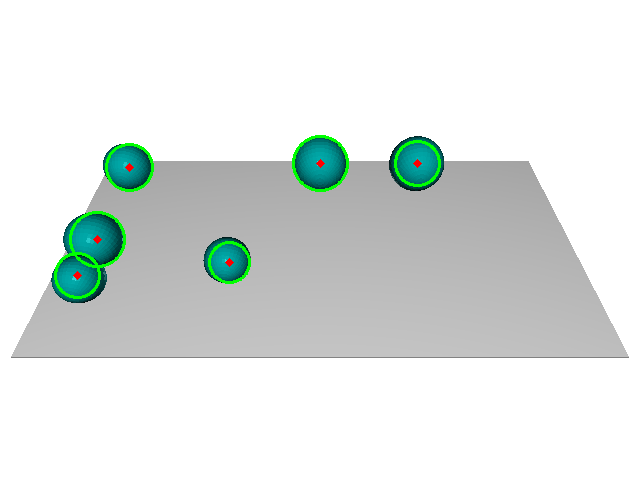
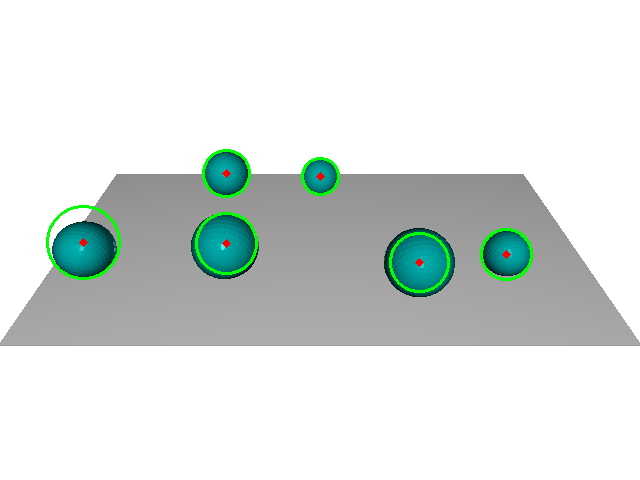
Finish task8-9

Changed region(s): [[0.0, 0.2812, 1.0, 0.75], [0.5938, 0.4688, 0.7188, 0.625], [0.75, 0.4688, 0.8438, 0.5938]]

diff --git a/CWII2324-v2.py b/CWII2324-v2.py
@@ -108,7 +108,7 @@ if __name__ == '__main__':
                         help='open up another visualiser to visualise centres')
     parser.add_argument('--coords', dest='bCoords', action='store_true')
 
-    parser.add_argument('--display_epilines', dest='bEpilines', action='store_true',
+    parser.add_argument('--display_spheres', dest='bSpheres', action='store_true',
                         help='Display epipolar lines in the 3D visualizer')
 
     parser.add_argument('--display_centers', dest='bDisplayCenters', action='store_true',
@@ -445,6 +445,9 @@ if __name__ == '__main__':
     # Extract the 3x3 intrinsic matrix from the Open3D PinholeCameraIntrinsic object
     K_matrix = np.array(K.intrinsic_matrix).reshape((3, 3))
 
+    R = H_10[:3, :3].T # R10^T
+    T = H_10[:3, 3] # T10
+
     reconstructed_centers = []
 
     for (pL, pR) in correspondences:  # Loop through the good pairs obtained from Task 5
@@ -452,24 +455,30 @@ if __name__ == '__main__':
         # Convert image points to normalized device coordinates
         pL_n = np.linalg.inv(K_matrix) @ np.array([pL[0], pL[1], 1])
         pR_n = np.linalg.inv(K_matrix) @ np.array([pR[0], pR[1], 1])
+        print(pL_n)
+        print("pR_n", pR_n)
+        print("R",R)
+        print("R.T",R.T)
 
-        # Compute cross product
-        pL_cross_pR = np.cross(pL_n, np.matmul(R, pR_n))
+    # Compute cross product
+        pL_cross_pR = np.cross(pL_n, np.matmul(R.T, pR_n))
 
         # Form the linear system Ax = 0
         A = np.column_stack([pL_n, -np.matmul(R.T, pR_n), -pL_cross_pR])
+        print("T",T)
 
-        b = -T.reshape(3, 1)  # Make sure T is a column vector
+        b = -T  # Make sure T is a column vector
 
         # Solve the linear system using least squares
         x, _, _, _ = np.linalg.lstsq(A, b, rcond=None)
 
         # a, b, and c are the components of the solution x
         a, b, c = x.flatten()  # Flatten in case x is a 2D array
-
+        print("a,b,c",a,b,c)
         # Reconstruct the 3D point
         X = a * pL_n - c * pL_cross_pR
 
+        # X = (a*pL_n + b*np.matmul(R, pR_n) + T)/2
         # Append the reconstructed 3D center to the list
         reconstructed_centers.append(X)
 
@@ -519,6 +528,24 @@ if __name__ == '__main__':
 
     Write your code here
     '''
+    estimated_radii = []
+
+    # Assuming circles0 and reconstructed_centers are available from previous tasks
+    # and 'f' is the focal length used in camera setup
+    for i, circle in enumerate(circles0[0, :]):
+        print(circles0)
+        # Extract the 2D radius
+        radius_2d = circle[2]
+
+        # Extract the corresponding 3D center
+        center_3d = reconstructed_centers[i]
+
+        # Estimate the 3D radius
+        # This assumes the depth of the sphere center is a good approximation for the sphere's radius
+        radius_3d = radius_2d / f * np.linalg.norm(center_3d)
+        estimated_radii.append(radius_3d)
+
+        print(f"Estimated 3D radius for sphere {i}: {radius_3d}")
     ###################################
 
 
@@ -528,6 +555,38 @@ if __name__ == '__main__':
 
     Write your code here:
     '''
+    # Compute radius errors
+    radius_errors = []
+    for gt_rad, est_rad in zip(GT_rads, estimated_radii):
+        error = abs(gt_rad - est_rad)
+        radius_errors.append(error)
+        print(f"Radius Error: {error}")
+
+    # Visualization
+    if args.bSpheres:  # Check if the argument to display spheres is set
+        gt_spheres = []
+        est_spheres = []
+
+        for gt_center, gt_rad, est_center, est_rad in zip(GT_cents, GT_rads, reconstructed_centers, estimated_radii):
+            # Ground Truth Sphere
+            gt_sphere = o3d.geometry.TriangleMesh.create_sphere(radius=gt_rad)
+            gt_sphere.translate(gt_center[:3])
+            gt_sphere.paint_uniform_color([1, 0, 0])  # Red color for ground truth
+            gt_spheres.append(gt_sphere)
+
+            # Estimated Sphere
+            est_sphere = o3d.geometry.TriangleMesh.create_sphere(radius=est_rad)
+            est_sphere.translate(est_center[:3])
+            est_sphere.paint_uniform_color([0, 0, 1])  # Blue color for estimated
+            est_sphere.compute_vertex_normals()
+            est_spheres.append(est_sphere)
+
+        vis = o3d.visualization.Visualizer()
+        vis.create_window(width=640, height=480, left=0, top=0)
+        for sphere in gt_spheres + est_spheres:
+            vis.add_geometry(sphere)
+        vis.run()
+        vis.destroy_window()
     ###################################
 
     ###################################
